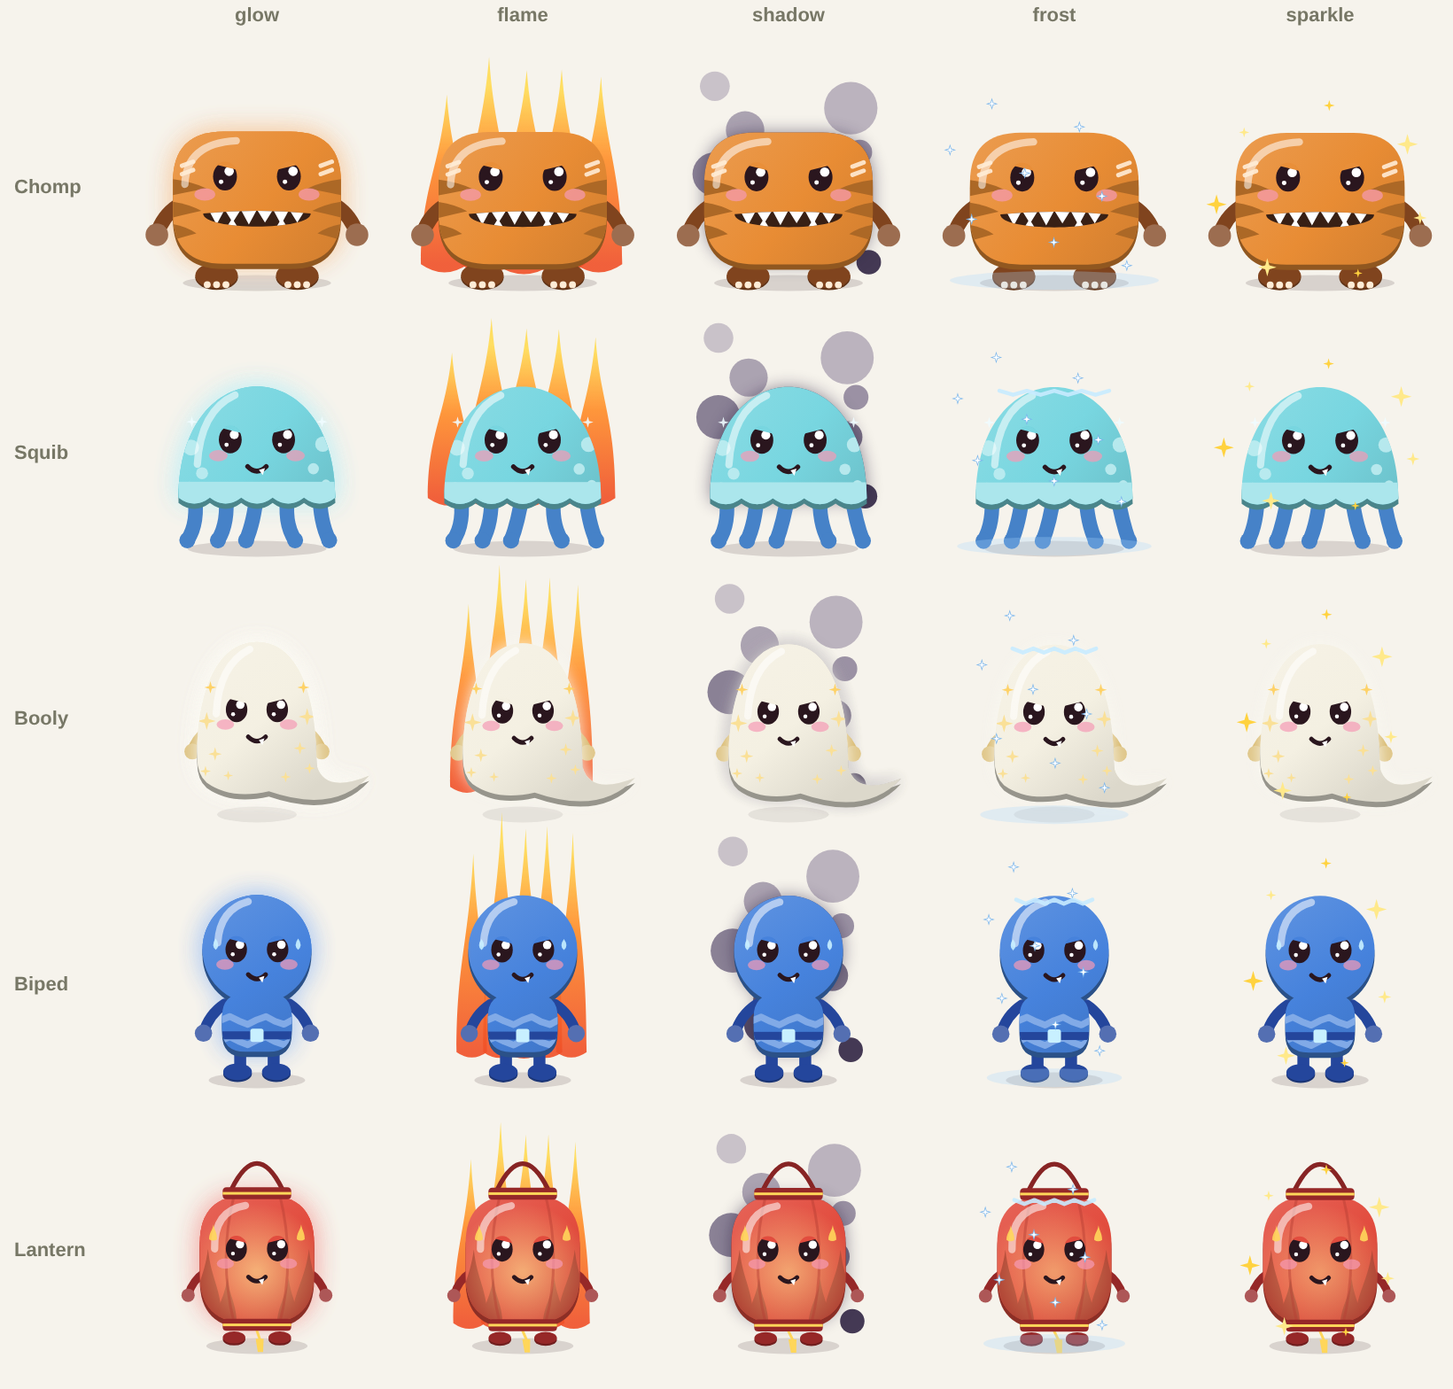
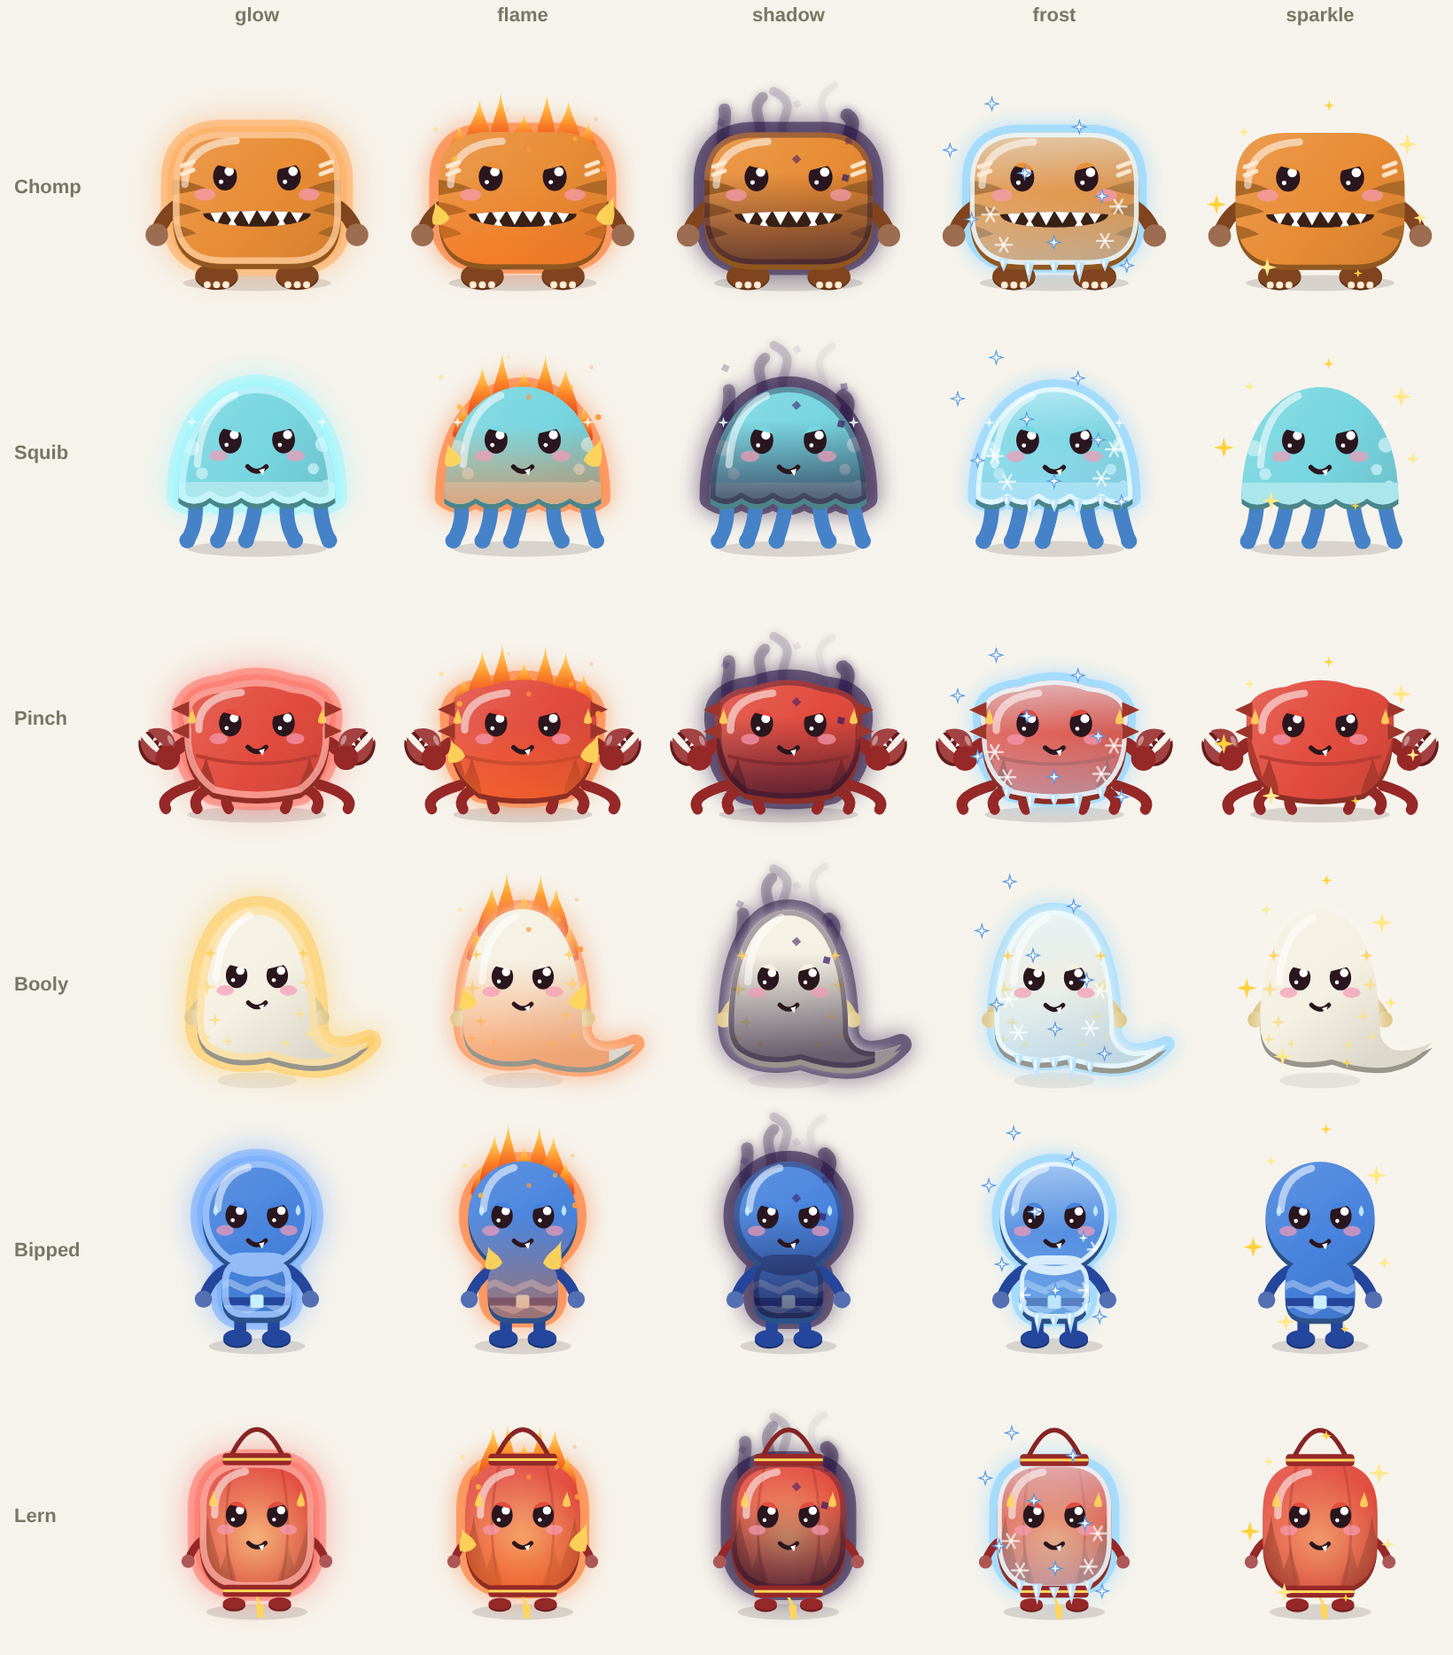
Effects rebuilt on the body, wings clear of Skit's legs, new bodies named Bipped, Teep and Lern
Glow, flame, shadow and frost now each have an aura around the outline, a tint on
the body and pieces that cling to it: flames along the top edge, smoke curling off
it, frost on the edges with icicles underneath. Wings draw after the legs so Skit
shows them. The effects sheet also has a grass background version (#effects-dark).

Claude-Session: https://claude.ai/code/session_01MQWzxUjVm8ojsjAXsvRGrb

diff --git a/prototype/chibi.js b/prototype/chibi.js
@@ -186,7 +186,7 @@ const CHIBI = (() => {
     const bob = P.walk ? -Math.abs(walk) * 4 : Math.sin(t / 600) * 1.2;
     const lift = (P.lift || 0) + bob, open = Math.max(0, Math.min(1, (P.open || 0) + chew * 0.5 - (P.chew ? 0.25 : 0)));
     const sx = (P.sx || 1) * (1 + Math.sin(t / 600) * 0.008), sy = (P.sy || 1) * (1 - Math.sin(t / 600) * 0.008);
-    const g = { cx: 100, bw: st.bw, bh: st.bh, bot: 174, top: 174 - st.bh }, left = g.cx - g.bw / 2;
+    const g = { cx: 100, bw: st.bw, bh: st.bh, bot: 174, top: 174 - st.bh, left: 100 - st.bw / 2 }, left = g.left;
     const fy = 183, fx = g.bw * 0.24;
     // shadow stays on the ground and shrinks as the body lifts
     c.fillStyle = rgba(INK, 0.14 + lift * 0.004);
@@ -223,6 +223,7 @@ const CHIBI = (() => {
     if (m.stage === 'Mega' && E) E.pattern(c, g, body);
     const my = g.top + g.bh * 0.62, mw = g.bw * st.mw;
     if (stout) { c.fillStyle = rgb(lt(body, 0.6)); c.beginPath(); c.ellipse(g.cx, my + g.bh * 0.17, g.bw * 0.36, g.bh * 0.28, 0, 0, 7); c.fill(); }
+    if (m.fx) fxOnBody(c, m.fx, () => roundBox(c, left, g.top, g.bw, g.bh, st.r), g, body, t);
     c.restore();
     // one white highlight arc on the upper left
     c.strokeStyle = 'rgba(255,255,255,.55)'; c.lineWidth = m.stage === 'Bit' ? 4.5 : 5.5; c.lineCap = 'round';
@@ -243,7 +244,7 @@ const CHIBI = (() => {
     mouth(c, g.cx, my, mw, open, st, body);
     wornFront(c, { head: [g.cx, g.top + 3, g.bw * 0.46], eyes: { cx: g.cx, y: ey, ex, s }, mouth: [g.cx, my, s] }, W, t);
     if (!armBehind && st.arm) arms();
-    if (m.fx) fxFront(c, m.fx, g, t);
+    if (m.fx) fxFront(c, m.fx, () => roundBox(c, left, g.top, g.bw, g.bh, st.r), g, t);
     c.restore();
     // extras float above and do not tilt with the body
     const top = g.top + lift;
@@ -388,8 +389,8 @@ const CHIBI = (() => {
     for (const sd of [-1, 1]) { c.beginPath(); c.moveTo(x, yy); c.bezierCurveTo(x + sd * 6 * s, yy - 6 * s, x + sd * 14 * s, yy - 3 * s, x + sd * 16 * s, yy - 7 * s);
       c.bezierCurveTo(x + sd * 17 * s, yy + 2 * s, x + sd * 8 * s, yy + 4 * s, x, yy + 1.5 * s); c.closePath(); c.fill(); } }
   /* wings hang behind the body from its shoulders */
-  function wings(c, g, item, t) {
-    const y = g.top + g.bh * 0.42, flap = Math.sin(t / 180) * 0.12;
+  function wings(c, g, item, t, wy = 0.42) {
+    const y = g.top + g.bh * wy, flap = Math.sin(t / 180) * 0.12;
     for (const sd of [-1, 1]) {
       c.save(); c.translate(g.cx + sd * g.bw * 0.36, y); c.scale(sd, 1); c.rotate(-0.25 + flap); const W = Math.max(34, g.bw * 0.42);
       if (item === 'Bat wings') {
@@ -417,32 +418,76 @@ const CHIBI = (() => {
     if (worn.face) faceItem(c, A, worn.face);
     if (worn.head) hat(c, A, worn.head, t);
   }
-  /* effects: glow, flame, shadow sit behind the body; sparkle and frost drift in front */
-  function fxBehind(c, fx, pathFn, g, body, t) {
-    if (fx === 'glow') { c.save(); c.shadowColor = rgba(lt(body, 0.6), 0.95); c.shadowBlur = 28; pathFn(); c.fillStyle = rgb(body); c.fill(); c.fill(); c.restore(); }
-    if (fx === 'flame') {                      // five round flames licking up behind the body, tallest in the middle
-      for (const k of [-1, -0.5, 0, 0.5, 1]) {
-        const x = g.cx + k * g.bw * 0.46, w = g.bw * (0.34 - Math.abs(k) * 0.06), hgt = (g.bh * 0.7 + 30 - Math.abs(k) * 18) * (1 + 0.12 * Math.sin(t / 110 + k * 5));
-        const gr = c.createLinearGradient(0, g.bot, 0, g.bot - g.bh - hgt * 0.35);
-        gr.addColorStop(0, 'rgba(240,80,40,.9)'); gr.addColorStop(0.6, 'rgba(255,140,40,.9)'); gr.addColorStop(1, 'rgba(255,220,90,.95)');
-        c.fillStyle = gr; flame(c, x + Math.sin(t / 160 + k * 3) * 2, g.bot, w, g.bh * 0.55 + hgt); c.fill();
-      }
-    }
-    if (fx === 'shadow') {                     // dark smoke puffs rising off the body
-      for (let k = 0; k < 9; k++) { const ph = ((t / 2400) + k / 9) % 1, side = k % 2 ? 1 : -1, r = 9 + (k % 3) * 4;
-        const x = g.cx + side * (g.bw * 0.3 + (k % 4) * 6) + Math.sin(ph * 5 + k) * 6, y = g.bot - ph * (g.bh + 50);
-        c.fillStyle = rgba(mix(SHADOW, [90, 60, 140], ph * 0.5), 0.85 * (1 - ph * 0.8)); c.beginPath(); c.arc(x, y, r * (0.7 + ph * 0.6), 0, 7); c.fill(); }
-      c.save(); c.shadowColor = 'rgba(34,22,56,.8)'; c.shadowBlur = 18; pathFn(); c.fillStyle = 'rgba(34,22,56,.6)'; c.fill(); c.restore();
-    }
+  /* ---------- effects ----------
+     Each effect works on the body itself: an aura around the outline (behind), a tint on the body (on), and pieces that
+     cling to or leave the body (front). pathFn rebuilds the body outline. */
+  const vivid = col => { const m = Math.max(...col) || 1, v = col.map(c2 => Math.round(c2 * 255 / m)); return Math.min(...col) > 190 ? [255, 196, 70] : mix(v, [255, 255, 255], 0.15); };
+  /* the body's top or bottom edge at x, found by testing points against the outline */
+  function edgeY(c, pathFn, g, x, fromTop) {
+    pathFn(); const M = c.getTransform();
+    for (let i = 0; i <= 90; i++) { const y = fromTop ? g.top - 50 + i * 2.5 : g.bot + 30 - i * 2.5, p = M.transformPoint({ x, y }); if (c.isPointInPath(p.x, p.y)) return y; }
+    return null;
   }
-  function fxFront(c, fx, g, t) {
+  function edgeX(c, pathFn, g, y, side) {
+    pathFn(); const M = c.getTransform();
+    for (let i = 0; i <= 80; i++) { const x = g.cx + side * (g.bw / 2 + 30 - i * 2.5), p = M.transformPoint({ x, y }); if (c.isPointInPath(p.x, p.y)) return x; }
+    return g.cx + side * g.bw / 2;
+  }
+  const aura = (c, pathFn, col, a, w, blur) => { c.save(); c.shadowColor = rgba(col, 0.95); c.shadowBlur = blur; c.strokeStyle = rgba(col, a); c.lineWidth = w; c.lineJoin = 'round'; pathFn(); c.stroke(); c.restore(); };
+  function fxBehind(c, fx, pathFn, g, body, t) {
+    const pulse = 0.8 + 0.2 * Math.sin(t / 380);
+    if (fx === 'glow') { const hc = vivid(body); aura(c, pathFn, hc, 0.55 * pulse, 18, 34); aura(c, pathFn, hc, 0.5 * pulse, 8, 14); }
+    if (fx === 'flame') {
+      aura(c, pathFn, [255, 110, 30], 0.55, 14, 26);
+      for (let k = 0; k < 7; k++) { const x = g.left + g.bw * (0.12 + k * 0.127), top = edgeY(c, pathFn, g, x, true); if (top == null) continue;
+        const h = (16 + (k % 3) * 7) * (1 + 0.25 * Math.sin(t / 90 + k * 2.3)), w = 15 + (k % 2) * 5;
+        const gr = c.createLinearGradient(0, top + 8, 0, top - h); gr.addColorStop(0, 'rgba(235,70,30,.95)'); gr.addColorStop(0.55, 'rgba(255,150,40,.95)'); gr.addColorStop(1, 'rgba(255,226,100,.95)');
+        c.fillStyle = gr; flame(c, x + Math.sin(t / 130 + k) * 1.5, top + 10, w, h + 10); c.fill(); }
+    }
+    if (fx === 'shadow') {
+      aura(c, pathFn, [40, 20, 70], 0.6, 16, 26);
+      c.save(); c.lineCap = 'round'; c.shadowColor = 'rgba(30,14,54,.9)'; c.shadowBlur = 10;
+      for (let k = 0; k < 5; k++) {           // smoke curls off the outline, fading as it rises
+        const x0 = g.left + g.bw * (0.12 + k * 0.19), top = edgeY(c, pathFn, g, x0, true); if (top == null) continue;
+        const ph = (t / 1800 + k / 5) % 1, len = 18 + ph * 22, sw = Math.sin(t / 380 + k * 1.9) * 6, dir = k % 2 ? 1 : -1;
+        c.strokeStyle = rgba([40, 20, 70], 0.55 * (1 - ph)); c.lineWidth = 11 - ph * 6;
+        c.beginPath(); c.moveTo(x0, top + 6); c.bezierCurveTo(x0 + dir * 10 + sw, top - len * 0.3, x0 - dir * 8 - sw, top - len * 0.65, x0 + dir * 6 + sw, top - len); c.stroke();
+      }
+      c.restore();
+    }
+    if (fx === 'frost') aura(c, pathFn, [150, 215, 255], 0.75, 12, 22);
+  }
+  /* called with the body outline already clipped */
+  function fxOnBody(c, fx, pathFn, g, body, t) {
+    if (fx === 'glow') { c.strokeStyle = rgba(lt(vivid(body), 0.45), 0.75); c.lineWidth = 10; pathFn(); c.stroke(); }
+    if (fx === 'flame') { const gr = c.createLinearGradient(0, g.bot, 0, g.top + g.bh * 0.35); gr.addColorStop(0, 'rgba(255,110,30,.5)'); gr.addColorStop(1, 'rgba(255,110,30,0)'); c.fillStyle = gr; c.fillRect(g.left - 20, g.top - 60, g.bw + 40, g.bh + 90); }
+    if (fx === 'shadow') { const gr = c.createLinearGradient(0, g.bot, 0, g.top + g.bh * 0.3); gr.addColorStop(0, 'rgba(26,12,46,.6)'); gr.addColorStop(1, 'rgba(26,12,46,0)'); c.fillStyle = gr; c.fillRect(g.left - 20, g.top - 60, g.bw + 40, g.bh + 90);
+      c.strokeStyle = 'rgba(26,12,46,.35)'; c.lineWidth = 8; pathFn(); c.stroke(); }
+    if (fx === 'frost') { const gr = c.createLinearGradient(0, g.top, 0, g.bot); gr.addColorStop(0, 'rgba(225,245,255,.55)'); gr.addColorStop(0.45, 'rgba(190,230,255,.12)'); gr.addColorStop(1, 'rgba(160,215,255,.45)');
+      c.fillStyle = gr; c.fillRect(g.left - 20, g.top - 60, g.bw + 40, g.bh + 90); c.strokeStyle = 'rgba(235,250,255,.85)'; c.lineWidth = 7; pathFn(); c.stroke();
+      c.strokeStyle = 'rgba(255,255,255,.7)'; c.lineWidth = 1.6;      // frost crystals on the sides
+      for (const [fx2, fy] of [[0.12, 0.62], [0.88, 0.56], [0.2, 0.85], [0.8, 0.82]]) { const x = g.left + g.bw * fx2, y = g.top + g.bh * fy;
+        for (let a = 0; a < 3; a++) { const an = a * Math.PI / 3; c.beginPath(); c.moveTo(x - Math.cos(an) * 6, y - Math.sin(an) * 6); c.lineTo(x + Math.cos(an) * 6, y + Math.sin(an) * 6); c.stroke(); } } }
+  }
+  function fxFront(c, fx, pathFn, g, t) {
     if (fx === 'sparkle') for (let k = 0; k < 7; k++) { const a = k * 0.9 + 0.3, tw = (Math.sin(t / 240 + k * 1.7) + 1) / 2;
       star(c, g.cx + Math.cos(a) * g.bw * 0.62, g.top + g.bh * 0.45 + Math.sin(a) * g.bh * 0.66, 0.35 + tw * 0.55, k % 2 ? '#ffd23f' : '#ffe98a'); }
-    if (fx === 'frost') { c.fillStyle = 'rgba(170,215,255,.28)'; c.beginPath(); c.ellipse(g.cx, 186, g.bw * 0.62, 7, 0, 0, 7); c.fill();
+    if (fx === 'flame') {
+      for (const side of [-1, 1]) { const y = g.top + g.bh * 0.62, x = edgeX(c, pathFn, g, y, side), h = 20 * (1 + 0.25 * Math.sin(t / 80 + side));   // licks up the sides, in front
+        const gr = c.createLinearGradient(0, y + 6, 0, y - h); gr.addColorStop(0, 'rgba(240,80,30,.95)'); gr.addColorStop(1, 'rgba(255,214,90,.95)');
+        c.fillStyle = gr; c.save(); c.translate(x, y); c.rotate(side * 0.35); flame(c, 0, 6, 13, h); c.fill(); c.restore(); }
+      for (let k = 0; k < 8; k++) { const ph = (t / 1500 + k / 8) % 1, x = g.cx + Math.sin(k * 2.4) * g.bw * 0.5 + Math.sin(ph * 7 + k) * 5, y = g.top + g.bh * 0.3 - ph * 60;
+        c.fillStyle = `rgba(255,${150 + (k % 3) * 35},60,${1 - ph})`; c.beginPath(); c.arc(x, y, 2.2 * (1 - ph * 0.5), 0, 7); c.fill(); }
+    }
+    if (fx === 'shadow') for (let k = 0; k < 5; k++) { const ph = (t / 2000 + k / 5) % 1, x = g.cx + Math.sin(k * 2.1) * g.bw * 0.45, y = g.top + g.bh * 0.4 - ph * 70;
+      c.fillStyle = `rgba(60,30,100,${0.8 * (1 - ph)})`; c.save(); c.translate(x + Math.sin(ph * 6 + k) * 6, y); c.rotate(ph * 3); c.fillRect(-2.5, -2.5, 5, 5); c.restore(); }
+    if (fx === 'frost') {
+      for (let k = 0; k < 5; k++) { const x = g.left + g.bw * (0.2 + k * 0.15), bot = edgeY(c, pathFn, g, x, false); if (bot == null) continue;   // icicles under the bottom edge
+        const len = 8 + (k % 2) * 6; c.fillStyle = 'rgba(190,230,255,.95)'; c.beginPath(); c.moveTo(x - 4, bot - 2); c.lineTo(x + 4, bot - 2); c.lineTo(x, bot + len); c.closePath(); c.fill();
+        c.fillStyle = 'rgba(255,255,255,.9)'; c.fillRect(x - 1.5, bot - 1, 1.5, len * 0.6); }
       for (let k = 0; k < 8; k++) { const ph = ((t / 2600) + k / 8) % 1, x = g.cx - g.bw * 0.65 + (k * 37 % 100) / 100 * g.bw * 1.3 + Math.sin(ph * 6 + k) * 4, y = g.top - 24 + ph * (g.bh + 40);
-        star(c, x, y, 0.5, 'rgba(120,180,235,.95)'); star(c, x, y, 0.3, '#ffffff'); }
-      c.strokeStyle = 'rgba(200,235,255,.9)'; c.lineWidth = 3; c.lineCap = 'round';      // frost along the top edge
-      c.beginPath(); for (let i = 0; i <= 8; i++) { const xx = g.left + g.bw * (0.15 + i * 0.0875), yy = g.top + 3 + (i % 2) * 3; i ? c.lineTo(xx, yy) : c.moveTo(xx, yy); } c.stroke(); }
+        star(c, x, y, 0.7, 'rgba(80,150,225,.95)'); star(c, x, y, 0.38, '#ffffff'); }
+    }
   }
 
   /* ---------- the other families: one body path each, plus what hangs off it ---------- */
@@ -598,7 +643,7 @@ const CHIBI = (() => {
     },
     /* a flat body slung between spider legs, four eyes at Mega and no arms */
     Skit: {
-      dims: { Bit: [80, 40], Byte: [104, 50], Mega: [126, 58] }, slots: { feet: false },
+      dims: { Bit: [80, 40], Byte: [104, 50], Mega: [126, 58] }, slots: { feet: false }, wingY: 0.05,
       bottom(st) { return by(st, 168, 166, 164); }, height(st) { return 184 - (this.bottom(st) - this.dims[st][1]) + 6; },
       path(c, g) { roundBox(c, g.left, g.top, g.bw, g.bh, g.bh * 0.5); },
       behind(c, g, x) { const n = by(g.stage, 2, 3, 4), lw = by(g.stage, 5, 5, 5.5);
@@ -650,7 +695,7 @@ const CHIBI = (() => {
       face: (c, g, x, look) => faceTwo(c, g, x, look, { ey: 0.38, ex: 0.17, my: 0.62, s: by(g.stage, 0.8, 0.92, 1) })
     },
     /* upright: a big round head on a small body, with arms and legs */
-    Biped: {
+    Bipped: {
       dims: { Bit: [64, 74], Byte: [74, 98], Mega: [82, 118] }, ll: st => by(st, 8, 12, 16),
       bottom(st) { return 183 - this.ll(st); }, height(st) { return this.dims[st][1] + this.ll(st) + 6; },
       torso(g) { const th = g.bh - g.bw + 8, tw = g.bw * by(g.stage, 0.56, 0.6, 0.64); return { th, tw, tx: g.cx - tw / 2, ty: g.bot - th }; },
@@ -698,7 +743,7 @@ const CHIBI = (() => {
       face: (c, g, x, look) => faceTwo(c, g, x, look, { ey: 0.54, ex: 0.18, my: 0.74, s: by(g.stage, 0.78, 0.88, 0.94) })
     },
     /* a teapot: the spout and handle are its signature parts, and the lid is where a hat sits */
-    Teapot: {
+    Teep: {
       dims: { Bit: [72, 52], Byte: [94, 66], Mega: [110, 78] }, lr: st => by(st, 8, 10, 12),
       bottom() { return 176; }, height(st) { return this.dims[st][1] + this.lr(st) + 18; },
       path(c, g) { const L = g.left, R = L + g.bw, T = g.top, B = g.bot, w = g.bw, h = g.bh;
@@ -723,7 +768,7 @@ const CHIBI = (() => {
       face: (c, g, x, look) => faceTwo(c, g, x, look, { ey: 0.42, ex: 0.17, my: 0.66, s: by(g.stage, 0.8, 0.92, 0.98) })
     },
     /* a paper lantern glowing from inside, with caps, a carry loop and a tassel at Mega */
-    Lantern: {
+    Lern: {
       dims: { Bit: [58, 62], Byte: [74, 80], Mega: [86, 96] },
       bottom() { return 171; }, height(st) { return this.dims[st][1] + 34; },
       path(c, g) { roundBox(c, g.left, g.top, g.bw, g.bh, g.bw * 0.42); },
@@ -760,8 +805,8 @@ const CHIBI = (() => {
     c.translate(P.lean || 0, lift);
     c.translate(100, 176); c.rotate((P.tilt || 0) * Math.PI / 180); c.scale(P.sx || 1, P.sy || 1); c.translate(-100, -176);
     if (m.fx) fxBehind(c, m.fx, () => F.path.call(F, c, g, x), g, body, t);
-    if (W.back) wings(c, g, W.back, t);
     if (F.behind) F.behind.call(F, c, g, x);
+    if (W.back) wings(c, g, W.back, t, F.wingY);
     let booted = 0; const putBoots = () => { if (bootsOn) boots(c, x.feet.slice(booted)); booted = x.feet.length; };
     putBoots();
     const sh = F.shoulder ? F.shoulder.call(F, g) : null;
@@ -791,6 +836,7 @@ const CHIBI = (() => {
     if (stage === 'Mega' && E && !F.patternAfter) E.pattern(c, g, body);
     if (F.inside) F.inside.call(F, c, g, x);
     if (stage === 'Mega' && E && F.patternAfter) E.pattern(c, g, body);
+    if (m.fx) fxOnBody(c, m.fx, () => F.path.call(F, c, g, x), g, body, t);
     c.restore();
     const h = F.hl ? F.hl(g) : [g.left + g.bw * 0.13, g.top + g.bh * 0.42, g.left + g.bw * 0.12, g.top + g.bh * 0.12, g.left + g.bw * 0.4, g.top + g.bh * 0.08];
     c.strokeStyle = 'rgba(255,255,255,.55)'; c.lineWidth = stage === 'Bit' ? 4.5 : 5.5; c.lineCap = 'round';
@@ -801,7 +847,7 @@ const CHIBI = (() => {
     putBoots();
     wornFront(c, { head: F.head ? F.head.call(F, g) : [g.cx, g.top + 2, g.bw * 0.5], eyes: { cx: fi.cx, y: fi.ey, ex: fi.ex, s: fi.s, one: fi.one }, mouth: [fi.cx, my, fi.s] }, W, t);
     if (P.front) arms();
-    if (m.fx) fxFront(c, m.fx, g, t);
+    if (m.fx) fxFront(c, m.fx, () => F.path.call(F, c, g, x), g, t);
     c.restore();
     const top = g.top + lift;
     if (P.extra === 'zz') { c.strokeStyle = rgb(lt(INK, 0.4)); c.lineWidth = 3; c.lineCap = 'round'; c.lineJoin = 'round';

diff --git a/docs/art/art-sheets.html b/docs/art/art-sheets.html
@@ -1,27 +1,27 @@
 <!doctype html><html><body style="margin:0;background:#f6f3ec"><canvas id="c"></canvas>
 <script src="../../prototype/chibi.js"></script><script>
-/* Art review sheets. Open with #elements, #worn, #effects or #new at the end of the address. */
+/* Art review sheets. Open with #elements, #worn, #effects or #new at the end of the address; add -dark for a grass background. */
 const PAL={Blaze:[[226,76,62],[150,40,40],[255,214,90]],Brawl:[[232,140,52],[128,68,30],[255,236,214]],Spark:[[246,206,60],[196,120,34],[255,250,225]],
  Wild:[[118,190,92],[64,120,58],[250,220,110]],Frost:[[120,214,224],[70,130,200],[240,252,255]],Tide:[[70,130,220],[36,70,156],[200,240,255]],
  Venom:[[150,96,206],[72,48,110],[170,240,120]],Charm:[[244,150,190],[150,92,190],[255,240,250]],Stone:[[160,122,86],[96,72,54],[226,206,176]],
  Light:[[244,240,226],[214,180,100],[255,206,90]],Steel:[[170,178,192],[88,96,112],[120,210,240]],Shade:[[78,70,104],[38,34,56],[255,214,74]]};
 const EL=Object.keys(PAL), pal=e=>({body:PAL[e][0],parts:PAL[e][1],accent:PAL[e][2]});
-const FAMS=['Chomp','Squib','Antik','Moko','Pinch','Stilt','Skit','Booly','Quad','Biped','Flask','Teapot','Lantern'];
-const HOME={Chomp:'Brawl',Squib:'Frost',Antik:'Steel',Moko:'Charm',Pinch:'Blaze',Stilt:'Wild',Skit:'Venom',Booly:'Light',Quad:'Stone',Biped:'Tide',Flask:'Venom',Teapot:'Spark',Lantern:'Blaze'};
+const FAMS=['Chomp','Squib','Antik','Moko','Pinch','Stilt','Skit','Booly','Quad','Bipped','Flask','Teep','Lern'];
+const HOME={Chomp:'Brawl',Squib:'Frost',Antik:'Steel',Moko:'Charm',Pinch:'Blaze',Stilt:'Wild',Skit:'Venom',Booly:'Light',Quad:'Stone',Bipped:'Tide',Flask:'Venom',Teep:'Spark',Lern:'Blaze'};
 const LOOKS={
  elements:{rows:['Squib','Pinch','Booly'],cols:EL.map(e=>({label:e,m:{stage:'Mega',el:e}}))},
  worn:{rows:FAMS,cols:[{label:'Plain',m:{}},{label:'Cap, sunglasses, boots',m:{worn:{head:'Cap',face:'Sunglasses',feet:'Boots'}}},
    {label:'Top hat, monocle, mustache',m:{worn:{head:'Top hat',face:'Monocle',mouth:'Mustache'}}},{label:'Crown, angel wings',m:{worn:{head:'Crown',back:'Angel wings'}}},
    {label:'Party hat, bat wings',m:{worn:{head:'Party hat',back:'Bat wings'}}},{label:'Bow, boots',m:{worn:{head:'Bow',feet:'Boots'}}}]},
- effects:{rows:['Chomp','Squib','Booly','Biped','Lantern'],cols:['glow','flame','shadow','frost','sparkle'].map(f=>({label:f,m:{fx:f}}))},
- new:{rows:['Pinch','Quad','Biped','Flask','Teapot','Lantern'],cols:[{label:'Bit',m:{stage:'Bit'}},{label:'Byte',m:{stage:'Byte'}},{label:'Mega',m:{stage:'Mega'}},{label:'Mega happy',m:{stage:'Mega'},pose:'happy'},{label:'Mega walk',m:{stage:'Mega'},pose:'walk'}]}
+ effects:{rows:['Chomp','Squib','Pinch','Booly','Bipped','Lern'],cols:['glow','flame','shadow','frost','sparkle'].map(f=>({label:f,m:{fx:f}}))},
+ new:{rows:['Pinch','Quad','Bipped','Flask','Teep','Lern'],cols:[{label:'Bit',m:{stage:'Bit'}},{label:'Byte',m:{stage:'Byte'}},{label:'Mega',m:{stage:'Mega'}},{label:'Mega happy',m:{stage:'Mega'},pose:'happy'},{label:'Mega walk',m:{stage:'Mega'},pose:'walk'}]}
 };
-const L=LOOKS[location.hash.slice(1)]||LOOKS.new, W=150, H=150, LX=70, TOP=34, c=document.getElementById('c'), d=2;
+const KEY=location.hash.slice(1).replace('-dark',''), DARK=/-dark/.test(location.hash), L=LOOKS[KEY]||LOOKS.new, W=150, H=150, LX=70, TOP=34, c=document.getElementById('c'), d=2;
 c.width=(LX+L.cols.length*W)*d; c.height=(TOP+L.rows.length*H)*d; c.style.width=c.width/d+'px';
-const x=c.getContext('2d'); x.scale(d,d); x.font='600 11px sans-serif'; x.textAlign='center'; x.fillStyle='#776';
+const x=c.getContext('2d'); x.scale(d,d); if(DARK){ x.fillStyle='#4f7a45'; x.fillRect(0,0,c.width,c.height); } x.font='600 11px sans-serif'; x.textAlign='center'; x.fillStyle=DARK?'#e8f0e0':'#776';
 L.cols.forEach((col,i)=>{ const words=col.label.split(', '); words.forEach((w,k)=>x.fillText(w,LX+i*W+W/2,12+k*12)); });
 x.textAlign='left';
-L.rows.forEach((fam,j)=>{ x.fillStyle='#776'; x.fillText(fam,8,TOP+j*H+H/2);
+L.rows.forEach((fam,j)=>{ x.fillStyle=DARK?'#e8f0e0':'#776'; x.fillText(fam,8,TOP+j*H+H/2);
   L.cols.forEach((col,i)=>{ const el=col.m.el||HOME[fam]; x.save(); x.translate(LX+i*W,TOP+j*H-16); x.scale(W/200,W/200);
     CHIBI.draw(x,{family:fam,stage:'Mega',marks:[],worn:{},pal:pal(el),el,...col.m},col.pose||'idle',300+i*130); x.restore(); }); });
 </script></body></html>
